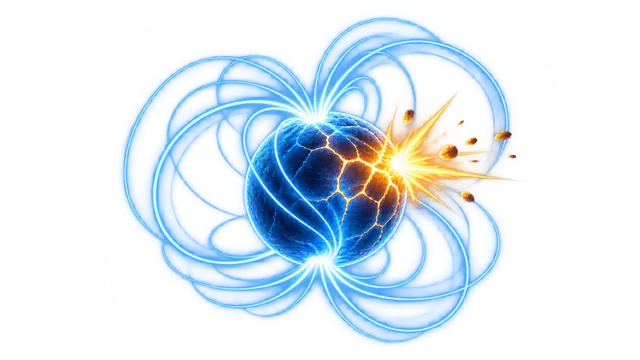
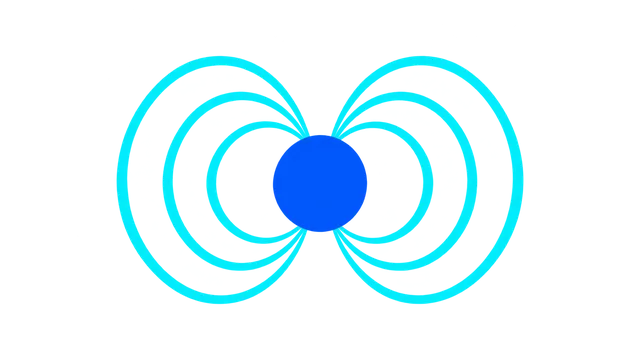
Upravit pět ilustrací podle pořadových čísel příspěvků

diff --git a/src/lib/components/PostIllustration.svelte b/src/lib/components/PostIllustration.svelte
@@ -28,7 +28,7 @@
 		'421', '422', '423', '424', '425', '426', '427', '428', '429', '430', '431', '432', '433', '434', '435', '436', '437', '438', '439', '440', '441', '442', '443', '444', '445',
 		'446', '447', '448', '449', '450', '451', '452', '454', '455', '456', '457', '458', '459', '460', '461', '464', '465', '467', '468', '469', '470', '472', '473', '474', '475',
 		'453', '462', '463', '466', '471', '476', '477', '478', '479', '480', '481', '482', '483', '484', '485', '486', '487', '488', '489', '490', '491', '492', '493', '494', '495', '496', '497', '498', '499', '500', '501', '502', '503', '504', '505', '506', '507', '508', '509', '510', '511', '512', '513', '514', '515', '516', '517', '518', '519', '520',
-		'521', '522', '523', '524', '525', '526', '527', '528', '529', '530', '531', '532', '533', '534', '535', '536', '537', '538', '539', '540', '541', '542', '543', '544', '545', '546', '547', '548', '549', '550', '551', '552', '553', '554', '555', '556', '557', '559', '560', '561', '562', '563', '564', '565', '566', '567', '568', '569', '570', '571'
+		'521', '522', '523', '524', '525', '526', '527', '528', '529', '530', '531', '532', '533', '534', '535', '536', '537', '538', '539', '540', '541', '542', '543', '544', '545', '546', '547', '548', '549', '550', '551', '552', '553', '554', '555', '556', '557', '559', '560', '561', '562', '563', '564', '565', '566', '567', '568', '569', '570', '571', '601'
 	]);
 
 	let imageAvailable = $derived(Boolean(post?.id && generatedIds.has(post.id)));

diff --git a/docs/ilustrace-handoff.md b/docs/ilustrace-handoff.md
@@ -6,9 +6,13 @@ Produkční karty používají statické AI ilustrace ve formátu WebP. Procedur
 Post `014`: regenerated with built-in image_gen as an isolated orange M87 emission ring and dark central shadow, brighter below. Transparent RGBA WebP, 640x360, 18,262 bytes; corner alpha 0. Reviewed at 160x90 and 320x180; both tests pass. Registered in cards and gallery. Exact prompt, SHA-256 and prior provenance retained in manifest; 054 unchanged. Generation size/quality/cost controls unavailable.
 
 
+
+Requested ordinal positions 453/451/457/404/501 map to IDs 553/551/557/504/601. Updated motifs: inward light at a black hole; intact magnetar with magnetic loops and no impact; pulsating Cepheid; microscope investigation of microbes; shared meaning expressed as spoken/written STROM. ID 601 is newly available; all five are registered in cards and gallery. Built-in image_gen used true transparency; generation size/quality/cost controls unavailable. All final assets are 640x360 RGBA WebP under 100 kB, with corner alpha 0 and balanced margins; reviewed at 160x90 and 320x180. Exact prompts, hashes, semantic caveats and prior provenance are in manifest. Original article text and metadata remain unchanged.
+
+
 ## Rozsah
 
-- Dostupné ilustrace: `001`–`312` a `413`–`571` (471 souborů, včetně sdílených kopií).
+- Dostupné ilustrace: `001`–`312` a `413`–`571` a `601` (472 souborů, včetně sdílených kopií).
 - `043` je uložený pro kontrolu v galerii, ale není zapnutý v produkčních kartách: při 160×90 px má příliš mnoho jemných architektonických detailů.
 - Assety: `static/illustrations-ai/<id>.webp`.
 - Rozměr: 640×360 px, poměr 16:9, WebP quality 80.
@@ -23,7 +27,7 @@ Kategorie Literatura používá výraznou citronově žlutou barvu `#e6dc58` (`-
 
 `src/lib/components/PostIllustration.svelte` vykresluje dekorativní `<img>` pouze pro ID s vytvořeným assetem. Cesta respektuje SvelteKit base path `/faakt.io`. Obrázky mají prázdný alt text, pevný poměr stran a `object-fit: contain`.
 
-Vývojová galerie je na `/faakt.io/dev/illustrations-ai/` a zobrazuje všech 471 obrázků ve stylu karet; počet v nadpisu přebírá z manifestu. Obrázky nemají vlastní CSS pozadí; alfa kanál odkrývá gradient karty. Poznámky k významu a odchylkám jsou v `review` každého nového záznamu manifestu.
+Vývojová galerie je na `/faakt.io/dev/illustrations-ai/` a zobrazuje všech 472 obrázků ve stylu karet; počet v nadpisu přebírá z manifestu. Obrázky nemají vlastní CSS pozadí; alfa kanál odkrývá gradient karty. Poznámky k významu a odchylkám jsou v `review` každého nového záznamu manifestu.
 
 ## Dávka 521–557 a 559–571
 
